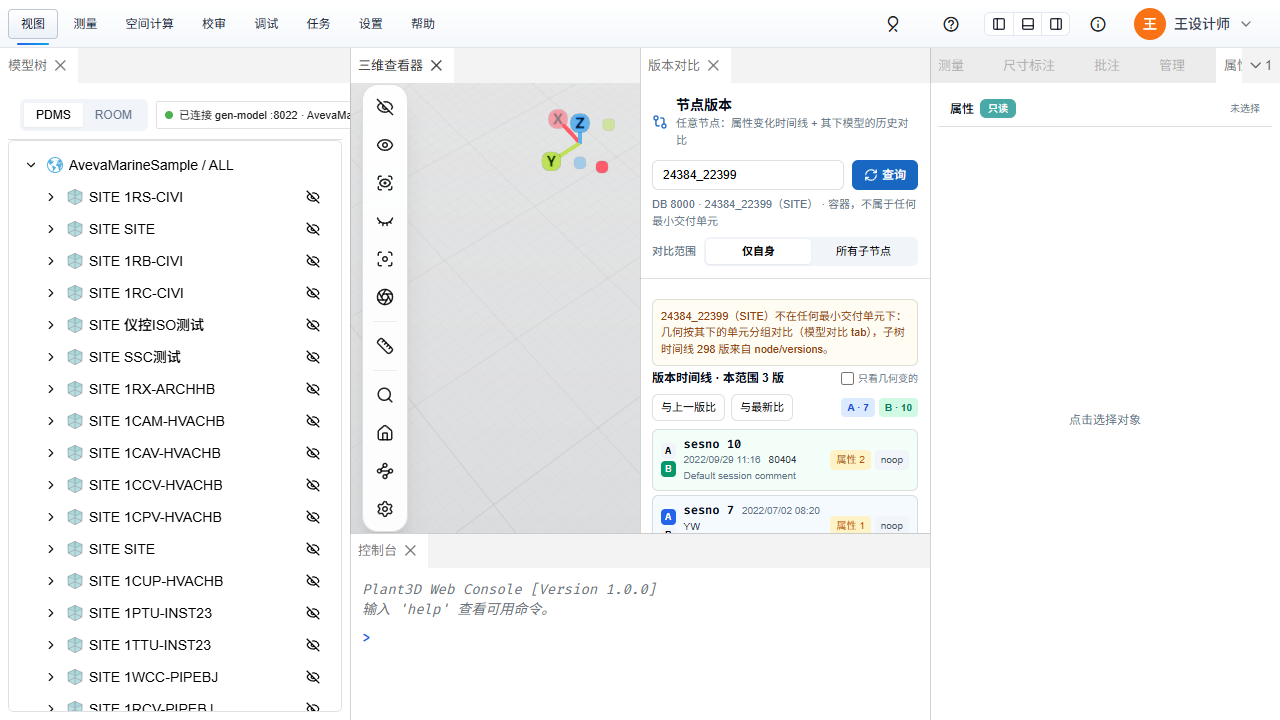
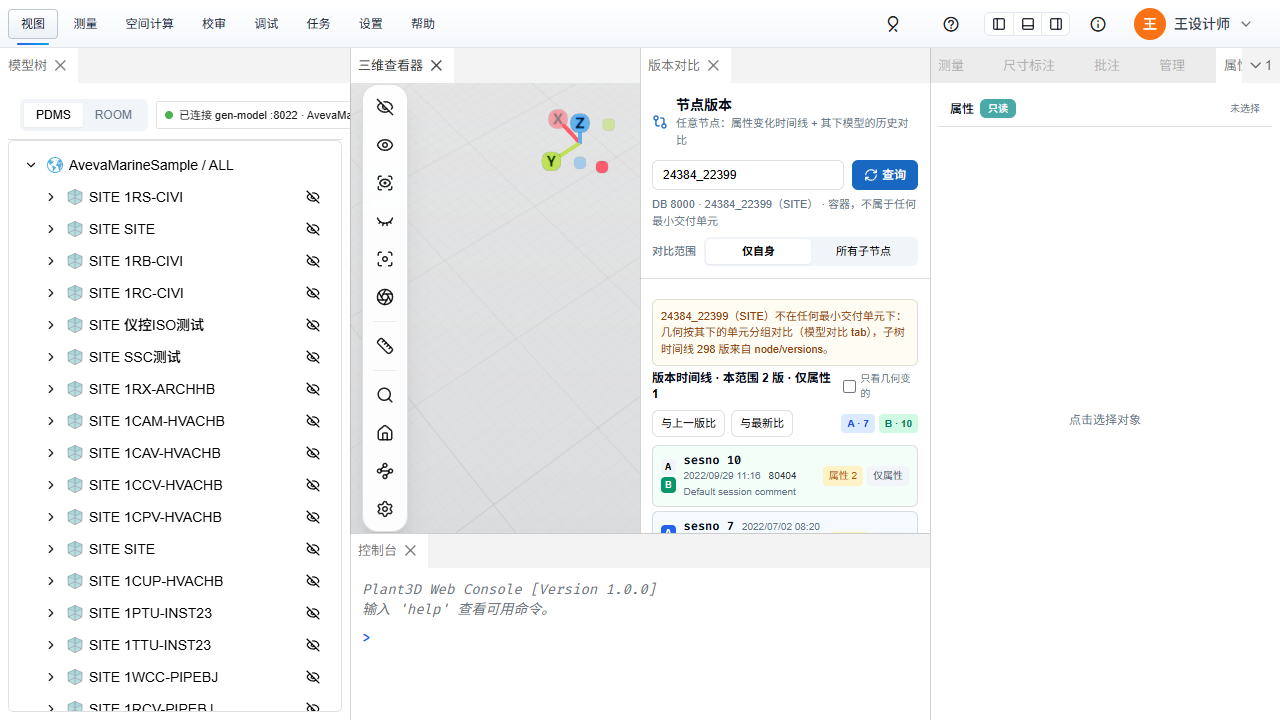
fix(model-version): 只在属性时间线里的会话标「仅属性」、不计入版数——「本范围 n 版 · 仅属性 m」两个数各自与服务端回执对得上
用户 2026-09-19 11:4x「把只设 UDA 的会话也算进 node/versions 的自身那一列（或反过来让面板标出「仅属性」），让「本范围 n 版」
与回执对得上」。取后一条：两条路由口径不动——element/versions / node/versions 按模型口径（diff_ele_data）问「模型变没变」，
attribute-history 按渲染后的属性问「改了什么」；改后端要么让 subtree 每个候选两端渲染属性（SITE 3,786 个候选 × 2 算不起），
要么让 node/versions self 与 element/versions 左列分叉。面板本就按并集列行（「谁在哪一版改了什么」要它），只是版数该按版本表算。

- utils/nodeVersionTimeline：行加 attributeOnly——属性时间线补上自身列、而版本表没把它算成一版的会话；自身列有可信来源
  （element/versions 非 unitColumnOnly，或节点版本表）时才标，旧服务端只给单元列 / 版本表还没回来时不标（判不了）。
  countNodeTimeline(rows, scope)：self 看自身列，subtree 下子树列有它仍是一版；回 { versions, attributeOnly }。
- 面板：标题「本范围 n 版 · 仅属性 m」（m 为 0 不显示）；行上那颗徽章 attributeOnly 时画「仅属性」（构件列画「本构件 仅属性」）
  替掉原来的 noop，带说明 title。
- CONTEXT.md「属性变化时间线」补一句；README §7 顺手那条划掉、记改法；计划 §10 追记。

验证：vitest 时间线 12 / 面板 16 全绿（新增：UDA 会话标仅属性且两个数分开、旧服务端不标、subtree 下子树列有的仍算版）；
ESLint 5 文件 0；type-check 基线外 0。真机（dev :3111 + :8022 ga382b2cf3）SITE 24384/22399「仅自身」= 本范围 2 版 · 仅属性 1
（sesno 10 行徽章「仅属性」），「所有子节点」= 298 版 · 仅属性 1；e2e 断言两个数各自等于 node/versions self / subtree 行数与
attribute-history 差集，2 passed（23.9 s）。

Changed region(s): [[0.5, 0.5194, 0.7188, 0.7639]]

diff --git a/src/components/model-version/ModelUnitVersionComparePanel.test.ts b/src/components/model-version/ModelUnitVersionComparePanel.test.ts
@@ -607,6 +607,15 @@ describe('ModelUnitVersionComparePanel', () => {
     versionSourceMocks.listElementVersions.mockResolvedValue(zone);
     versionSourceMocks.listNodeVersions.mockResolvedValue(subtree);
     versionSourceMocks.diffSummary.mockRejectedValue(new ModelVersionRouteUnavailableError('node/diff-summary'));
+    // 属性变化时间线多一行 500：只设了 UDA，版本表（模型口径）不算它一版 → 行照列、标「仅属性」、不计入「本范围 n 版」
+    versionSourceMocks.attributeHistory.mockResolvedValue({
+      dbnum: 7997, refno: '1_9', noun: 'ZONE', unitRefno: null, unitNoun: null,
+      entries: [
+        { sesno: 444, sessionTime: '2026-07-20T00:00:00Z', user: 'YW', comment: '建 ZONE', kind: 'created', impact: 'delivery', changedCount: 0, changes: [], members: null, owner: null, attributesUnavailable: null },
+        { sesno: 500, sessionTime: '2026-07-21T00:00:00Z', user: '80404', comment: 'UDA', kind: 'modified', impact: 'noop', changedCount: 1,
+          changes: [{ name: 'UDA:2902d6e2', valueType: 'text', before: null, after: 'JS', stamp: false }], members: null, owner: null, attributesUnavailable: null },
+      ],
+    });
 
     const host = document.createElement('div');
     document.body.appendChild(host);
@@ -624,20 +633,26 @@ describe('ModelUnitVersionComparePanel', () => {
     expect(host.querySelector('[data-testid="model-unit-compare-notice"]')?.textContent).toContain('子树时间线 3 版来自 node/versions');
     expect(host.querySelector('[data-testid="model-unit-compare-manual-pair"]')).toBeNull();
 
-    // 容器缺省「仅自身」：只有 444（出现）/ 897（自身 noop）在范围内，791 是子树在动 → 灰掉不显示，缺省 A/B = 444 → 897
+    // 容器缺省「仅自身」：444（出现）/ 500（仅属性）/ 897（自身 noop）在范围内，791 是子树在动 → 灰掉不显示；缺省 A/B = 500 → 897
     const rows = () => [...host.querySelectorAll('[data-testid="model-unit-compare-timeline"] li')];
-    expect(rows().map((li) => li.getAttribute('data-sesno'))).toEqual(['897', '444']);
-    expect(host.querySelector('[data-testid="model-unit-compare-a"]')?.getAttribute('data-sesno')).toBe('444');
+    expect(rows().map((li) => li.getAttribute('data-sesno'))).toEqual(['897', '500', '444']);
+    expect(host.querySelector('[data-testid="model-unit-compare-a"]')?.getAttribute('data-sesno')).toBe('500');
     expect(host.querySelector('[data-testid="model-unit-compare-b"]')?.getAttribute('data-sesno')).toBe('897');
     expect(host.querySelector('[data-testid="model-unit-compare-units-changed"]')).toBeNull();
+    // 「本范围 2 版 · 仅属性 1」：2 与 node/versions self 的行数对得上；500 那一行的徽章是「仅属性」而不是 noop
+    expect(host.querySelector('[data-testid="model-unit-compare-timeline-head"]')?.textContent).toContain('本范围 2 版 · 仅属性 1');
+    const attributeOnlyChips = () => [...host.querySelectorAll('[data-testid="model-unit-compare-attribute-only"]')];
+    expect(attributeOnlyChips().map((chip) => chip.closest('li')?.getAttribute('data-sesno'))).toEqual(['500']);
 
-    // 切「所有子节点」：三版全在范围内，每行带「单元 n」
+    // 切「所有子节点」：四版全在范围内，动过几何的行带「单元 n」；500 仍是「仅属性」，版数 3 = node/versions subtree 的行数
     (host.querySelector('[data-testid="model-unit-compare-scope-subtree"]') as HTMLButtonElement).click();
     await flushUi();
-    expect(rows().map((li) => [li.getAttribute('data-sesno'), li.getAttribute('data-in-scope')])).toEqual([['897', 'true'], ['791', 'true'], ['444', 'true']]);
+    expect(rows().map((li) => [li.getAttribute('data-sesno'), li.getAttribute('data-in-scope')])).toEqual([['897', 'true'], ['791', 'true'], ['500', 'true'], ['444', 'true']]);
     expect([...host.querySelectorAll('[data-testid="model-unit-compare-units-changed"]')].map((chip) => chip.textContent?.trim())).toEqual(['单元 2', '单元 1', '单元 4']);
-    expect(host.querySelector('[data-testid="model-unit-compare-timeline-head"]')?.textContent).toContain('本范围 3 版');
+    expect(host.querySelector('[data-testid="model-unit-compare-timeline-head"]')?.textContent).toContain('本范围 3 版 · 仅属性 1');
+    expect(attributeOnlyChips().map((chip) => chip.closest('li')?.getAttribute('data-sesno'))).toEqual(['500']);
     app.unmount();
+    versionSourceMocks.attributeHistory.mockReset();
 
     // 旧服务端（没有 node/versions）：只列得出它自己那一版，手填会话号那一栏露出来、提示照实说
     versionSourceMocks.listNodeVersions.mockRejectedValue(new ModelVersionRouteUnavailableError('node/versions'));

diff --git a/src/utils/nodeVersionTimeline.test.ts b/src/utils/nodeVersionTimeline.test.ts
@@ -2,6 +2,7 @@ import { describe, expect, it } from 'vitest';
 
 import {
   buildNodeTimelineRows,
+  countNodeTimeline,
   defaultNodeScope,
   defaultNodeVersionPair,
   foldAttributeChanges,
@@ -124,10 +125,55 @@ describe('buildNodeTimelineRows', () => {
     ]);
   });
 
-  it('只有属性时间线（版本表还没回来）也能成行', () => {
+  it('只有属性时间线（版本表还没回来）也能成行，且不标「仅属性」（自身列没有来源，判不了）', () => {
     const rows = buildNodeTimelineRows({ timeline: null, history, scope: 'self' });
     expect(rows.map((row) => row.sesno)).toEqual([626, 573, 5]);
-    expect(rows[2]).toMatchObject({ selfImpact: 'delivery', kind: 'created', inScope: true });
+    expect(rows[2]).toMatchObject({ selfImpact: 'delivery', kind: 'created', inScope: true, attributeOnly: false });
+    expect(countNodeTimeline(rows, 'self')).toEqual({ versions: 3, attributeOnly: 0 });
+  });
+
+  it('只在属性时间线里出现的会话（UDA 之类，模型口径不成一版）标「仅属性」，「本范围 n 版」与版本表行数对得上', () => {
+    // 2026-09-19 真机 SITE 24384/22399：element/versions 左列 5 delivery / 7 noop，attribute-history 多一行 sesno 10（两个 UDA 被设值）
+    const site: ModelElementVersionTimeline = {
+      ...timeline, refno: '24384_22399', noun: 'SITE', unitRefno: null, unitNoun: null,
+      versions: [
+        { sesno: 5, sessionTime: 't5', elementImpact: 'delivery', unitImpact: null },
+        { sesno: 7, sessionTime: 't7', elementImpact: 'noop', unitImpact: null },
+      ],
+    };
+    const siteHistory: ModelAttributeHistory = {
+      dbnum: 8000, refno: '24384_22399', noun: 'SITE', unitRefno: null, unitNoun: null,
+      entries: [
+        entry(5, [], { kind: 'created', impact: 'delivery' }),
+        entry(7, [{ name: 'NAME', valueType: 'text', before: '', after: '/1RX03-EQUI', stamp: false }], { impact: 'noop' }),
+        entry(10, [
+          { name: 'UDA:2902d6e2', valueType: 'text', before: '', after: 'JS', stamp: false },
+          { name: 'UDA:2902d6e3', valueType: 'text', before: '', after: 'PIPERB', stamp: false },
+        ], { impact: 'noop' }),
+      ],
+    };
+    const rows = buildNodeTimelineRows({ timeline: site, history: siteHistory, scope: 'self' });
+    expect(rows.map((row) => [row.sesno, row.inScope, row.attributeOnly])).toEqual([[10, true, true], [7, true, false], [5, true, false]]);
+    // 版本表说 2 版，仅属性 1：两个数分开报，n 与 element/versions / node/versions 的行数一致
+    expect(countNodeTimeline(rows, 'self')).toEqual({ versions: 2, attributeOnly: 1 });
+
+    // 所有子节点下：子树列（节点版本表）没有 10，它仍是「仅属性」；子树列有的会话即便自身只改属性也算一版
+    const siteVersions: ModelNodeVersionTimeline = {
+      dbnum: 8000, refno: '24384_22399', noun: 'SITE', scope: 'subtree', unitRefno: null, unitNoun: null,
+      versions: [
+        { sesno: 5, sessionTime: 't5', impact: 'delivery', selfImpact: 'delivery', unitsChanged: 521, unitsTouched: 521 },
+        { sesno: 7, sessionTime: 't7', impact: 'noop', selfImpact: 'noop', unitsChanged: 0, unitsTouched: 0 },
+        { sesno: 626, sessionTime: 't626', impact: 'mesh', selfImpact: null, unitsChanged: 1, unitsTouched: 1 },
+      ],
+    };
+    const subtree = buildNodeTimelineRows({ timeline: site, history: siteHistory, nodeVersions: siteVersions, scope: 'subtree' });
+    expect(subtree.map((row) => [row.sesno, row.inScope, row.attributeOnly])).toEqual([[626, true, false], [10, true, true], [7, true, false], [5, true, false]]);
+    expect(countNodeTimeline(subtree, 'subtree')).toEqual({ versions: 3, attributeOnly: 1 });
+
+    // 旧服务端只给单元那一列（自身列未知）：属性时间线补上的行不标「仅属性」——判不了
+    const unitOnly: ModelElementVersionTimeline = { ...timeline, unitColumnOnly: true, versions: [{ sesno: 573, sessionTime: 't573', elementImpact: null, unitImpact: 'mesh' }] };
+    const unknown = buildNodeTimelineRows({ timeline: unitOnly, history, scope: 'self' });
+    expect(unknown.every((row) => !row.attributeOnly)).toBe(true);
   });
 
   it('旧服务端只给单元那一列（unitColumnOnly）：self 范围下自身列算未知、不筛，缺省 A / B 照样选得出来', () => {

diff --git a/src/components/model-version/ModelUnitVersionComparePanel.vue b/src/components/model-version/ModelUnitVersionComparePanel.vue
@@ -42,6 +42,7 @@ import {
 } from '@/utils/modelUnitVersionCompare';
 import {
   buildNodeTimelineRows,
+  countNodeTimeline,
   defaultNodeScope,
   defaultNodeVersionPair,
   foldAttributeChanges,
@@ -140,7 +141,8 @@ const timelineRows = computed<NodeTimelineRow[]>(() => buildNodeTimelineRows({
   nodeVersions: nodeVersions.value,
   scope: scope.value,
 }));
-const inScopeCount = computed(() => timelineRows.value.filter((row) => row.inScope).length);
+/** 「本范围 n 版 · 仅属性 m」：n 与服务端版本表的行数对得上，m 是只在属性变化时间线里的会话（UDA 之类） */
+const timelineCounts = computed(() => countNodeTimeline(timelineRows.value, scope.value));
 /** 范围内的行 + 被选为 A/B 但已不在范围内的行（灰掉、标「本范围无变化」，Q9 a） */
 const visibleTimelineRows = computed(() => timelineRows.value.filter((row) => {
   const selected = row.sesno === beforeSesno.value || row.sesno === afterSesno.value;
@@ -247,6 +249,12 @@ function impactLabel(impact: ModelVersionImpactKind | null): string {
 function rowImpact(row: NodeTimelineRow): ModelVersionImpactKind | null {
   if (scope.value === 'self' && !selfColumnUnknown.value) return row.selfImpact;
   return row.unitImpact ?? row.selfImpact;
+}
+
+/** 单元根 / 容器的那一颗徽章要不要画成「仅属性」：显示的是自身列、且版本表没把这一会话算成一版 */
+function attributeOnlyShown(row: NodeTimelineRow): boolean {
+  if (!row.attributeOnly) return false;
+  return scope.value === 'self' ? !selfColumnUnknown.value : row.unitImpact === null;
 }
 
 function impactClass(impact: ModelVersionImpactKind | null): string {
@@ -835,7 +843,7 @@ onBeforeUnmount(() => {
       <template v-if="timelineRows.length > 0">
         <div class="mt-1 flex items-center justify-between gap-2">
           <h3 class="text-xs font-semibold text-foreground" data-testid="model-unit-compare-timeline-head">
-            版本时间线 · 本范围 {{ inScopeCount }} 版
+            版本时间线 · 本范围 {{ timelineCounts.versions }} 版<template v-if="timelineCounts.attributeOnly"> · 仅属性 {{ timelineCounts.attributeOnly }}</template>
           </h3>
           <label class="flex items-center gap-1 text-[10px] text-muted-foreground">
             <input v-model="geometryOnly" type="checkbox" />只看几何变的
@@ -911,13 +919,19 @@ onBeforeUnmount(() => {
                 :title="`这一会话有几何要重算的最小交付单元数`"
                 data-testid="model-unit-compare-units-changed">单元 {{ row.unitsChanged }}</span>
               <template v-if="queriedIsUnitRoot">
-                <span class="rounded px-1.5 py-0.5 text-[10px]" :class="impactClass(rowImpact(row))">
+                <span v-if="attributeOnlyShown(row)" class="rounded bg-slate-100 px-1.5 py-0.5 text-[10px] text-slate-600"
+                  title="这一会话只改了不进模型提取的属性（UDA 之类）：版本表不算它一版，属性变化时间线照列"
+                  data-testid="model-unit-compare-attribute-only">仅属性</span>
+                <span v-else class="rounded px-1.5 py-0.5 text-[10px]" :class="impactClass(rowImpact(row))">
                   {{ impactLabel(rowImpact(row)) }}
                 </span>
               </template>
               <template v-else>
                 <span v-if="scope === 'subtree'" class="rounded px-1.5 py-0.5 text-[10px]" :class="impactClass(row.unitImpact)">单元 {{ impactLabel(row.unitImpact) }}</span>
-                <span class="rounded px-1.5 py-0.5 text-[10px]" :class="impactClass(row.selfImpact)">
+                <span v-if="row.attributeOnly" class="rounded bg-slate-100 px-1.5 py-0.5 text-[10px] text-slate-600"
+                  title="这一会话本构件只改了不进模型提取的属性（UDA 之类）：版本表不算它一版，属性变化时间线照列"
+                  data-testid="model-unit-compare-attribute-only">本构件 仅属性</span>
+                <span v-else class="rounded px-1.5 py-0.5 text-[10px]" :class="impactClass(row.selfImpact)">
                   本构件 {{ selfColumnUnknown ? '?' : impactLabel(row.selfImpact) }}
                 </span>
               </template>

diff --git a/src/utils/nodeVersionTimeline.ts b/src/utils/nodeVersionTimeline.ts
@@ -35,6 +35,12 @@ export type NodeTimelineRow = {
   /** 自身记录改了几项（属性行 + 成员 + owner）；没有时间线时为 null */
   changedCount: number | null;
   kind: ModelAttributeHistoryEntry['kind'] | null;
+  /**
+   * 这一会话节点自身只在属性变化时间线里出现、版本表（`element/versions` 左列 / `node/versions` 的 `self_impact`）没把它算成一版：
+   * 改的是不进模型提取的属性（UDA 之类），模型口径下等于原样重写。行照列（「谁在哪一版改了什么」要它），但不计入「本范围 n 版」，
+   * 行上标「仅属性」——这样版数与服务端版本表的行数对得上。
+   */
+  attributeOnly: boolean;
   /** 在当前对比范围内算不算「变了」；不算的行只在被选为 A / B 时才显示（灰掉并标「本范围无变化」） */
   inScope: boolean;
 };
@@ -71,6 +77,7 @@ export function buildNodeTimelineRows(input: NodeTimelineInput): NodeTimelineRow
         unitsChanged: null,
         changedCount: null,
         kind: null,
+        attributeOnly: false,
         inScope: false,
       };
       bySesno.set(sesno, row);
@@ -92,13 +99,19 @@ export function buildNodeTimelineRows(input: NodeTimelineInput): NodeTimelineRow
     row.unitsChanged = version.unitsChanged;
     if (!row.selfImpact) row.selfImpact = version.selfImpact;
   }
+  // 自身那一列有没有可信的来源：element/versions 的左列（旧服务端 unitColumnOnly 时是未知）或节点版本表的 self_impact
+  const selfColumnKnown = (input.timeline !== null && !input.timeline.unitColumnOnly) || nodeVersions !== null;
   for (const entry of input.history?.entries ?? []) {
     const row = ensure(entry.sesno, entry.sessionTime);
     row.user = entry.user;
     row.comment = entry.comment;
     row.changedCount = entry.changedCount;
     row.kind = entry.kind;
-    if (!row.selfImpact) row.selfImpact = entry.impact;
+    if (!row.selfImpact) {
+      // 版本表没把它算成自身的一版（改的是不进模型提取的属性）：行照列，自身列有来源时标「仅属性」，没来源就只是补上
+      row.selfImpact = entry.impact;
+      row.attributeOnly = selfColumnKnown;
+    }
   }
   const hasUnit = !!input.timeline?.unitRefno;
   const subtreeKnown = nodeVersions !== null;
@@ -110,6 +123,23 @@ export function buildNodeTimelineRows(input: NodeTimelineInput): NodeTimelineRow
       : row.selfImpact !== null || ((subtreeKnown || hasUnit) && row.unitImpact !== null);
   }
   return [...bySesno.values()].sort((x, y) => y.sesno - x.sesno);
+}
+
+/**
+ * 「本范围 n 版 · 仅属性 m」的两个数：`versions` = 范围内版本表算成一版的会话数（与服务端 `node/versions` / `element/versions` 的
+ * 行数对得上），`attributeOnly` = 范围内只有属性时间线列出来的会话数（UDA 之类，模型口径下不成一版）。
+ */
+export function countNodeTimeline(rows: NodeTimelineRow[], scope: ModelNodeDiffScope): { versions: number; attributeOnly: number } {
+  let versions = 0;
+  let attributeOnly = 0;
+  for (const row of rows) {
+    if (!row.inScope) continue;
+    // `self` 只看自身列；`subtree` 下子树列有它就仍是一版（自身只改了属性、成员却动了几何）
+    const onlyAttributes = scope === 'self' ? row.attributeOnly : row.attributeOnly && row.unitImpact === null;
+    if (onlyAttributes) attributeOnly += 1;
+    else versions += 1;
+  }
+  return { versions, attributeOnly };
 }
 
 export type NodeVersionPair = { a: number | null; b: number | null };

diff --git a/e2e/node-version-view-gen-model-v1.spec.ts b/e2e/node-version-view-gen-model-v1.spec.ts
@@ -196,19 +196,31 @@ test('容器节点：子树时间线来自 node/versions（不再手填会话号
   await expect(page.getByTestId('model-unit-compare-notice')).toContainText(`子树时间线 ${subtree.versions.length} 版来自 node/versions`, { timeout: 120_000 });
   await expect(page.getByTestId('model-unit-compare-manual-pair')).toHaveCount(0);
   await expect(page.getByTestId('model-unit-compare-error')).toHaveCount(0);
-  // 「仅自身」的行 = 三条来源的并集：node/versions self（模型口径的记录变化）∪ attribute-history（任何属性变过，UDA 也算）
-  const selfSesnos = new Set<number>([
-    ...(self?.versions ?? subtree.versions.filter((row) => row.self_impact !== null)).map((row) => row.sesno),
-    ...(containerHistory?.entries ?? []).map((entry) => entry.sesno),
-  ]);
+  // 「仅自身」的行 = 两条来源的并集：node/versions self（模型口径的记录变化）∪ attribute-history（任何属性变过，UDA 也算）；
+  // 只在后者里的会话标「仅属性」，标题「本范围 n 版 · 仅属性 m」的 n 与 node/versions self 的行数对得上
+  const nodeSelfSesnos = new Set<number>((self?.versions ?? subtree.versions.filter((row) => row.self_impact !== null)).map((row) => row.sesno));
+  const historySesnos = (containerHistory?.entries ?? []).map((entry) => entry.sesno);
+  const selfSesnos = new Set<number>([...nodeSelfSesnos, ...historySesnos]);
+  const attributeOnly = historySesnos.filter((sesno) => !nodeSelfSesnos.has(sesno));
   const selfCount = selfSesnos.size;
   await expect(inScopeRows(page)).toHaveCount(selfCount);
+  await expect(page.getByTestId('model-unit-compare-timeline-head')).toContainText(`本范围 ${nodeSelfSesnos.size} 版`);
+  if (attributeOnly.length > 0) {
+    await expect(page.getByTestId('model-unit-compare-timeline-head')).toContainText(`仅属性 ${attributeOnly.length}`);
+    await expect(page.getByTestId('model-unit-compare-attribute-only')).toHaveCount(attributeOnly.length);
+    await expect(timelineRow(page, attributeOnly[0]!)).toContainText('仅属性');
+  }
   await evidence(page, 'container-self-timeline', { container: CONTAINER, noun: subtree.noun, selfCount, subtreeCount: subtree.versions.length });
 
   // 切「所有子节点」：每一行都在范围内，动过几何的行带「单元 n」
   await page.getByTestId('model-unit-compare-scope-subtree').click();
   const subtreeSesnos = new Set<number>([...subtree.versions.map((row) => row.sesno), ...selfSesnos]);
   await expect(inScopeRows(page)).toHaveCount(subtreeSesnos.size);
+  // 版数 = node/versions subtree 的行数；只在属性时间线里的会话仍是「仅属性」
+  const subtreeTableSesnos = new Set<number>(subtree.versions.map((row) => row.sesno));
+  const subtreeAttributeOnly = historySesnos.filter((sesno) => !subtreeTableSesnos.has(sesno));
+  await expect(page.getByTestId('model-unit-compare-timeline-head')).toContainText(`本范围 ${subtreeTableSesnos.size} 版`);
+  if (subtreeAttributeOnly.length > 0) await expect(page.getByTestId('model-unit-compare-timeline-head')).toContainText(`仅属性 ${subtreeAttributeOnly.length}`);
   const withUnits = subtree.versions.filter((row) => row.units_changed > 0);
   await expect(page.getByTestId('model-unit-compare-units-changed')).toHaveCount(withUnits.length);
   const sample = withUnits.at(-1)!;

diff --git a/docs/verification/model-version-compare-gen-model-v1-2026-09-18/README.md b/docs/verification/model-version-compare-gen-model-v1-2026-09-18/README.md
@@ -174,6 +174,6 @@
 | 页面（dev `:3111` + `:8022`，`e2e/node-version-view-gen-model-v1.spec.ts`，`--workers=1`） | **2 passed（23 s）**，pageerror 0。**叶子 FTUB 24384_23262**（`leaf-*`）：`unit_refno=…&compare_autorun=1` 开面板；叶子没成员 → 缺省「仅自身」、「所有子节点」置灰；时间线「本范围 53 版」，行上 `dpc · CODEX db8000 FTUBE 4 … · 属性 2 · 本构件 mesh`；缺省 A=626 B=630 自动装所属单元 BRAN 24384_23257 → **修改 1 / 未变 8**；属性对比 tab **`A 626 → B 630 · 2 项变化`：POS `10887, 12332, 3400 → …2900`、SPAMAP `1400034000 → 1400029000`**。**容器 SITE 24384_22399**（`container-*`）：提示「子树时间线 **298** 版来自 node/versions」、手填会话号那一栏不再露出、自动跑不再报「没有几何」；缺省「仅自身」在范围 3 版（node/versions self 2 版 ∪ attribute-history 的 sesno 10：两个 UDA 被设值，模型口径不算变化）；切「所有子节点」→ 299 版全在范围、动过几何的行带「单元 n」（sesno 5 「单元 521」）；点行选 A=630 B=632 → 属性对比 tab「有变的构件 2 个」（EQUI 24384_24776 修改 · mesh、BOX 24384_26495 删除 · tombstone），点开 EQUI 拉它自己的时间线；模型对比 tab 差异摘要「变了的单元 1 / 未变 525 / 删除 1 / 修改 1」、容器自己的「在三维中对比」禁用、分组只有 EQUI 一组 → 点它 → **`24384_24776 · 删除 1 / 未变 1`**，树进 630 → 632 差异模式、幽灵行 `24384/26495（已删除）`、底部属性历史对比「该构件在版本 B 不存在」 |
 | 入口之三 | 右侧「属性」面板标题栏多了「历史」按钮（选中谁查谁，见 `leaf-model-compare.png` 右上角）；点击走 `requestModelVersionInspect + ensurePanelAndActivate('modelVersionCompare')`，单测 2 条，页面级没单独点（选中要先在树 / 三维里点对象） |
 
-顺手看到（未动）：
-- `node/versions` / `element/versions` 的「自身那一列」按模型口径（`diff_ele_data`）算，**只设 UDA 的会话不成一行**（SITE 24384/22399 的 sesno 10：`UDA:2902d6e2 = JS`、`UDA:2902d6e3 = PIPERB`），`attribute-history` 却列它——面板按并集列，所以「仅自身」多出一行 `属性 2 · noop`。两条路由口径不同是刻意的（一条问「模型变没变」、一条问「改了什么」），但前端「本范围 n 版」的数字因此 ≠ 任一条回执的行数。
+顺手看到：
+- ~~`node/versions` / `element/versions` 的「自身那一列」按模型口径（`diff_ele_data`）算，**只设 UDA 的会话不成一行**（SITE 24384/22399 的 sesno 10：`UDA:2902d6e2 = JS`、`UDA:2902d6e3 = PIPERB`），`attribute-history` 却列它——面板按并集列，所以「仅自身」多出一行 `属性 2 · noop`，前端「本范围 n 版」的数字 ≠ 任一条回执的行数。~~ **11:4x 用户拍板改面板**：两条路由口径不动（一条问「模型变没变」、一条问「改了什么」），面板把只在属性时间线里的会话标 **「仅属性」**、不计入版数——标题「本范围 2 版 · 仅属性 1」（`container-self-timeline.png`），2 = `node/versions?scope=self` 行数；切「所有子节点」= 「本范围 298 版 · 仅属性 1」，298 = subtree 行数。e2e 断言两个数各自与回执对得上，2 passed。
 - `:8022` 现在是内存库：`dbnum_consistency.judged = 0`（模型按需懒生成），`history/generate` 与四条版本路由都不依赖它；别的会话若要 `model/records` 里的持久模型（校审 / 净距那些），得先 `dbnums/8000/model/ensure` 或把 `:8009` 那台 rocksdb 库找回来再换 `AIOS_STORE_MODE=rocksdb` 重起。

diff --git a/docs/plans/2026-09-18-model-version-compare-gen-model-v1-migration-plan.md b/docs/plans/2026-09-18-model-version-compare-gen-model-v1-migration-plan.md
@@ -433,6 +433,12 @@ legacy 下与从前的可见差别只有一处、且不可见于用户：A/B 隔
   `since_sesno=618` 命中缓存 20 ms → 626 / 628 / 630 / 632 各「单元 1」；BRAN 24384/23257 子树 57 行与 `model/versions` 逐行同序同档
   （2.4 s vs 6.6 s）；FTUB 24384/23262 `self` 53 行与 `element/versions` 左列一致；ZONE 24384/22400 子树 198 行 / self 5 行；
   `scope=bogus` 400、不存在 refno 404、dbnum 不符 400、`since_sesno` 不在链上 404。
+- **「仅属性」（11:4x，用户拍板）**：只改了不进模型提取的属性（UDA 之类）的会话，`element/versions` / `node/versions`（模型口径，
+  `diff_ele_data`）不算它一版，`attribute-history` 却列它——面板按并集列，「本范围 n 版」曾因此 ≠ 任一条回执。两条路由口径不动
+  （改后端要么让 subtree 每个候选两端渲染属性——3,786 个候选 × 2 算不起，要么让 `node/versions self` ≠ `element/versions` 左列），
+  改前端：`buildNodeTimelineRows` 给只在属性时间线里的行标 `attributeOnly`（自身列有可信来源时才标，旧服务端 `unitColumnOnly` 不标），
+  `countNodeTimeline` 分两个数，标题「本范围 n 版 · 仅属性 m」，行上徽章「仅属性」替掉那颗 noop。真机 SITE 24384/22399：
+  「仅自身」= 本范围 2 版 · 仅属性 1（sesno 10：`UDA:2902d6e2 / 2902d6e3`），「所有子节点」= 298 版 · 仅属性 1；e2e 两个数各自对回执。
 - **端口**：`ModelVersionSource.attributeHistory(dbnum, refno)` / `diffSummary(dbnum, refno, a, b, scope)`，类型 `ModelAttributeHistory` /
   `ModelNodeDiffSummary`（`ports.ts`）；v1 适配器按 `truncated` 连续拉、旧构建的无信封 404 → `ModelVersionRouteUnavailableError(route)`；
   legacy stub 照旧抛退役错。
